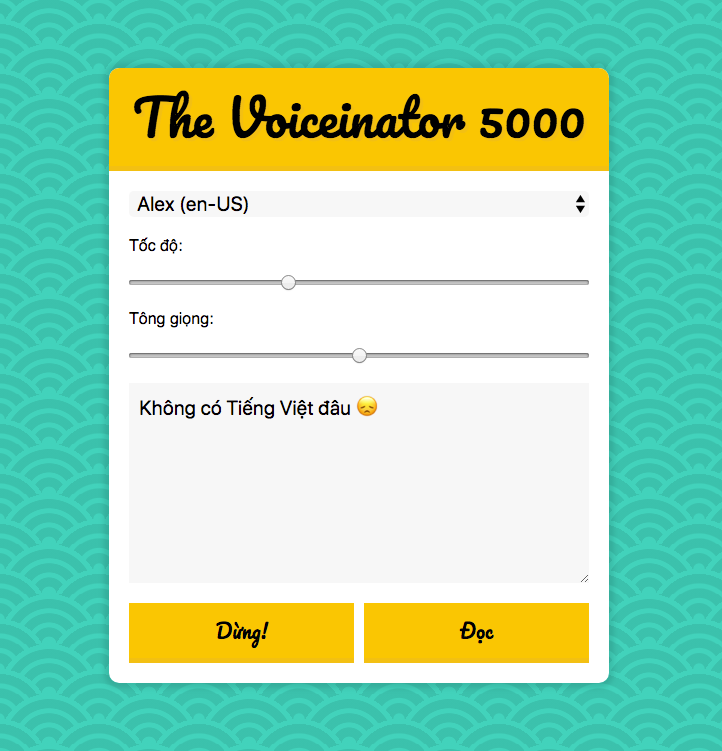
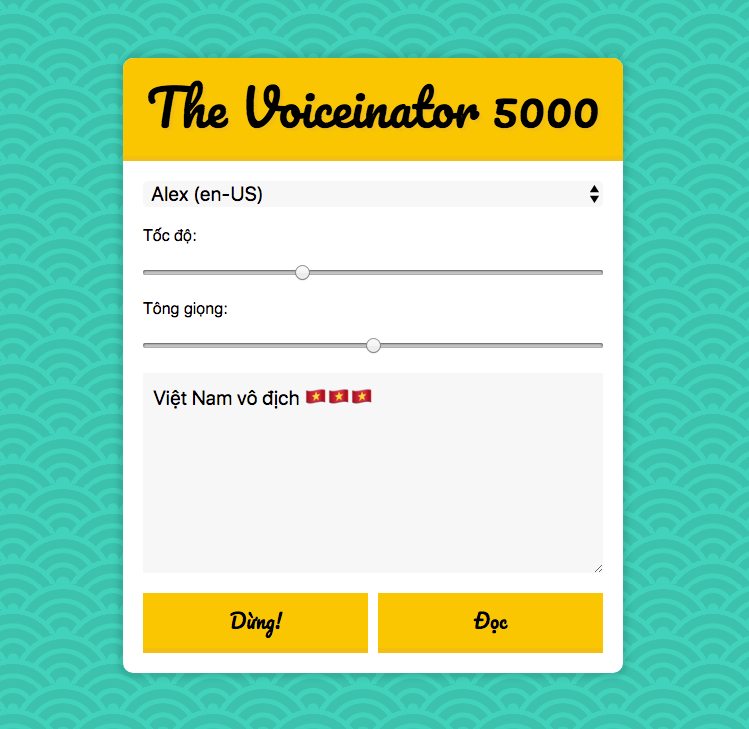
update background, default text

Changed region(s): [[0.1219, 0.0604, 0.8532, 0.9355], [0.4875, 0.4527, 0.518, 0.4829]]

diff --git a/speech-synthesis-day-23/index.html b/speech-synthesis-day-23/index.html
@@ -29,7 +29,7 @@
       <label for="pitch">Tông giọng:</label>
 
       <input name="pitch" type="range" min="0" max="2" step="0.1" />
-      <textarea name="text">Không có Tiếng Việt đâu 😞</textarea>
+      <textarea name="text">Việt Nam vô địch 🇻🇳🇻🇳🇻🇳</textarea>
       <button id="stop">Dừng!</button>
       <button id="speak">Đọc</button>
     </div>
